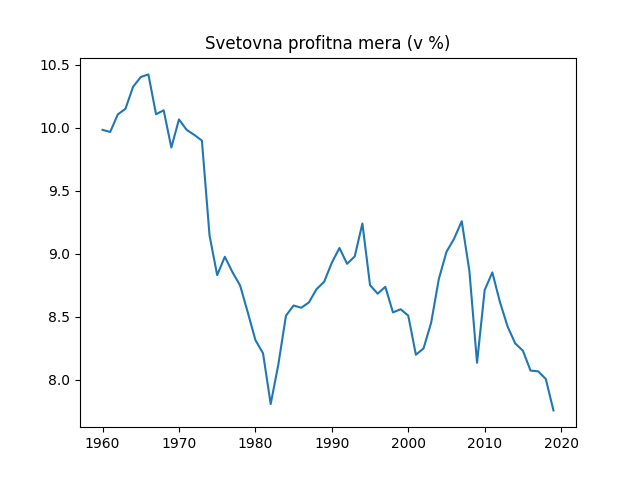
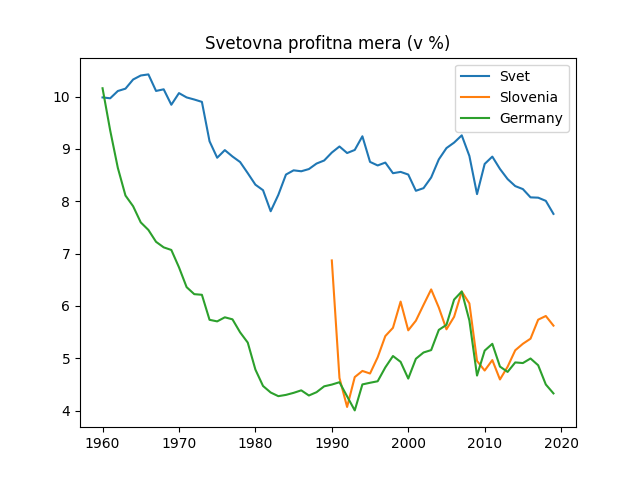
Aggregated profit rate.

diff --git a/exploration/main.py b/exploration/main.py
@@ -83,43 +83,39 @@ def plot_multiline(
     plt.close(1)
 
 
-plot = False
-if plot == True:
-    data = epwt[["Country", "Year", "ROP", "OCC", "ROE", "TCC"]][
-        epwt["Country"].isin(["Poland", "Germany", "Slovenia"])
-    ]
+data = epwt[["Country", "Year", "ROP", "OCC", "ROE", "TCC"]][
+    epwt["Country"].isin(["Germany", "Slovenia"])
+]
 
-    byCountry = df_split_by_field(data, "Country")
+byCountry = df_split_by_field(data, "Country")
 
-    minYear = max([df["Year"].min() for df in byCountry])
+minYear = max([df["Year"].min() for df in byCountry])
 
-    byCountry = [df[df["Year"] >= minYear] for df in byCountry]
+byCountry = [df[df["Year"] >= minYear] for df in byCountry]
 
-    plot_multiline(
-        byCountry, "Year", "ROE", "Country", "figures/ROE.png", "Mera izkoriščanja"
-    )
+plot_multiline(
+    byCountry, "Year", "ROE", "Country", "figures/ROE.png", "Mera izkoriščanja"
+)
 
-    plot_multiline(
-        byCountry,
-        "Year",
-        "OCC",
-        "Country",
-        "figures/OCC.png",
-        "Organska kompozicija kapitala",
-    )
+plot_multiline(
+    byCountry,
+    "Year",
+    "OCC",
+    "Country",
+    "figures/OCC.png",
+    "Organska kompozicija kapitala",
+)
 
-    plot_multiline(
-        byCountry, "Year", "ROP", "Country", "figures/ROP.png", "Profitna mera"
-    )
+plot_multiline(byCountry, "Year", "ROP", "Country", "figures/ROP.png", "Profitna mera")
 
-    plot_multiline(
-        byCountry,
-        "Year",
-        "TCC",
-        "Country",
-        "figures/TCC.png",
-        "Tehnična kompozicija kapitala",
-    )
+plot_multiline(
+    byCountry,
+    "Year",
+    "TCC",
+    "Country",
+    "figures/TCC.png",
+    "Tehnična kompozicija kapitala",
+)
 
 if False:
     print(
@@ -156,6 +152,15 @@ arop = pd.DataFrame(yearly, columns=["Year", "ROP"])
 
 print(arop.to_string())
 
+plt.figure(1)
 plt.title("Svetovna profitna mera (v %)")
-plt.plot(arop["Year"], arop["ROP"] * 100)
+plt.plot(arop["Year"], arop["ROP"] * 100, label="Svet")
+
+slo = epwt[epwt["Country"] == "Slovenia"][["Year", "ROP"]].dropna()
+germ = epwt[epwt["Country"] == "Germany"][["Year", "ROP"]].dropna()
+
+plt.plot(slo["Year"], slo["ROP"] * 100, label="Slovenia")
+plt.plot(germ["Year"], germ["ROP"] * 100, label="Germany")
+plt.legend()
 plt.savefig("figures/AROP.png")
+plt.close(1)
